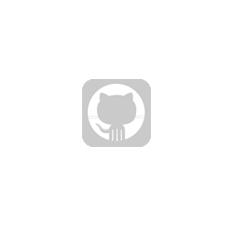
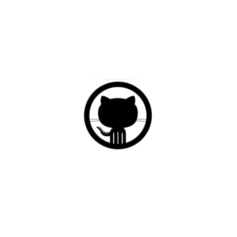
Adición de badges más grandes

Changed region(s): [[0.3249, 0.3249, 0.6498, 0.6498]]

diff --git a/css/style.css b/css/style.css
@@ -132,17 +132,135 @@ td {
     background: #f2f2f2;
 }
 
-img.badgec
+.selectors img
 {
-	width: 27px;
-border-radius: 32px;
-margin-bottom: 7px;
+	width: 50px;
+	border-radius: 32px;
+	margin: 0 8px 18px;
 }
 
-img.badgem
+
+img.badgeborder
 {
-	border-radius: 30px;
-margin-bottom: 7px;
-margin-left: 16px;
-width: 27px;
+border-color: rgb(221, 220, 220);
+border-width: thin;
+border-style: solid;
+}
+
+
+
+div.contenidofuente
+{
+	font-size:12pt;
+}
+div.separador
+{
+	border-top: solid thin #0080be;
+	padding: 30px 0;
+	width: 100%;
+}
+#libro .lectura table p
+{
+	color: rgb(60, 56, 56);
+}
+
+#libro .lectura .badgetitulo p
+{
+	font-size: 21px;
+}
+#libro .lectura .badgedescripcion p
+{
+	font-size: 16px;
+}
+#libro .lectura table img
+{
+	border-radius: 6px;
+	margin: 0 6px 0 0;
+	max-width: 25px;
+}
+#libro .lectura table img.notyet
+{
+	opacity: .5;
+}
+#libro .lectura table img.notyet:hover
+{
+	opacity: 1;
+}
+div.contenidofuente table thead
+{
+	background: #0080be;
+	color: white;
+}
+div.contenidofuente table thead td
+{
+	line-height: 22px;
+	padding: 10px 0px 10px 15px;
+	text-align: left;
+	vertical-align: top;
+	width: 15%;
+}
+div.contenidofuente table td, div.contenidofuente table th 
+{
+	padding: 10px;
+}
+div.contenidofuente table tbody td
+{
+	border-bottom: 1px solid #ddd	
+}
+.tooltip 
+{
+	-webkit-border-radius: 5px;
+	background-color: #ccc !important;
+	border-radius: 10px;
+	border: 1px solid #ccc;
+	color: #fff;
+	display: none;
+	font-size: 12pt;
+	height: auto;
+	padding: 5px;
+	position: absolute; top: -200px;
+	right: 40px;
+	width: 260px;
+	z-index: 1;
+}
+div.tooltip-wrapper
+{
+	display:inline-block;
+	position: relative;
+}
+div.badgetitulo 
+{
+	margin-bottom: 14px;
+}
+div.badgeimagen
+{
+	background: white;
+	border-radius: 6px;
+	display: inline-block;
+	margin: 2px 8px 0 9px !important;
+	padding: 6px 3px 0 9px !important;
+	vertical-align: top;
+}
+div.badgenombre
+{
+	display: inline-block;
+	height: auto; 
+	vertical-align: bottom;
+	width: 185px;
+}
+#libro .lectura div.badgenombre p
+{
+	display: inline-block; 
+	font-size: 21px;
+	margin: 0px 0 0 5px; 
+	vertical-align: bottom;
+}
+div.badgedescripcion
+{
+	margin: 0 5% 0 5%;
+	width: 232px; 
+}
+div.badgedescripcion p
+{
+	font-size: 14px;
 }

diff --git a/index.html b/index.html
@@ -188,13 +188,55 @@ var xResizeDelay = (function () {
 </head>
 <body>
 	<div class="xSquare"></div><!-- page_wrapper -->
-	<div class="selectors"><a href="#">- My calling -</a></div>
-	<div class="selectors"><a href="#">Become a World-Class Web Developer and Spread Online Collaboration</a><br></div>
+	<div class="selectors"><a href="#">- My Calling -</a></div>
+	<div class="selectors"><a href="#">Becoming a World-Class Web Developer through coding, teaching and collaborating</a><br><br>
+		<img class="" src="content/js.png">
+		<img class="" src="content/rails.png">
+		<img class="" src="content/git2.jpg">
 
-	<div class="selectors"><a href="#">- Organizations -</a></div>
-	<div class="selectors"><img class="badgec" src="content/conexion.png"></div>
-	<div class="selectors"><a href="#">- Communities -</a></div>
-	<div class="selectors"><img class="badgec" src="content/conexion.png"><img class="badgem" src="content/mejorandola.png"></div>
+
+<!--
+
+<div class="tooltip-wrapper">
+              				<a class="tooltip-trigger">
+	              				<img src="http://miguelnieva.github.com/imgs/badge1.png" alt="1° Expo">
+              				</a>
+              				<div class="tooltip">
+						<div class="badgetitulo">
+							<div class="badgeimagen">
+								<img src="http://miguelnieva.github.com/imgs/badge1.png" alt="1° Expo">
+							</div>
+							<div class="badgenombre">
+								<p>
+									1° Expo Mejorándola
+								</p>
+							</div>
+						</div>
+						<div class="badgedescripcion">
+							<p>
+								Presenta tu primera exposición para la generación.
+							</p>
+						</div>
+					</div>
+				</div>
+
+
+-->
+
+
+
+
+	</div>
+
+	<div class="selectors"><a href="#"> - Where do I put my heart into and work with awesome people ? -</a></div>
+	<div class="selectors"><img class="" src="content/conexion.png"><img class="" src="content/mejorandola.png"></div>
+	<div class="selectors"><a href="#">- Where do I share knowledge and learn everyday? -</a></div>
+	<div class="selectors">
+		<img class="" src="content/stack.png">
+		<img class="" src="content/ted2.jpg">
+		<img class="" src="content/goodreads.jpg">
+	</div>
+
 	<div class="selectors"><a href="#">miguelnieva@conexionew.com</a></div>
 
 <script type="text/javascript">
